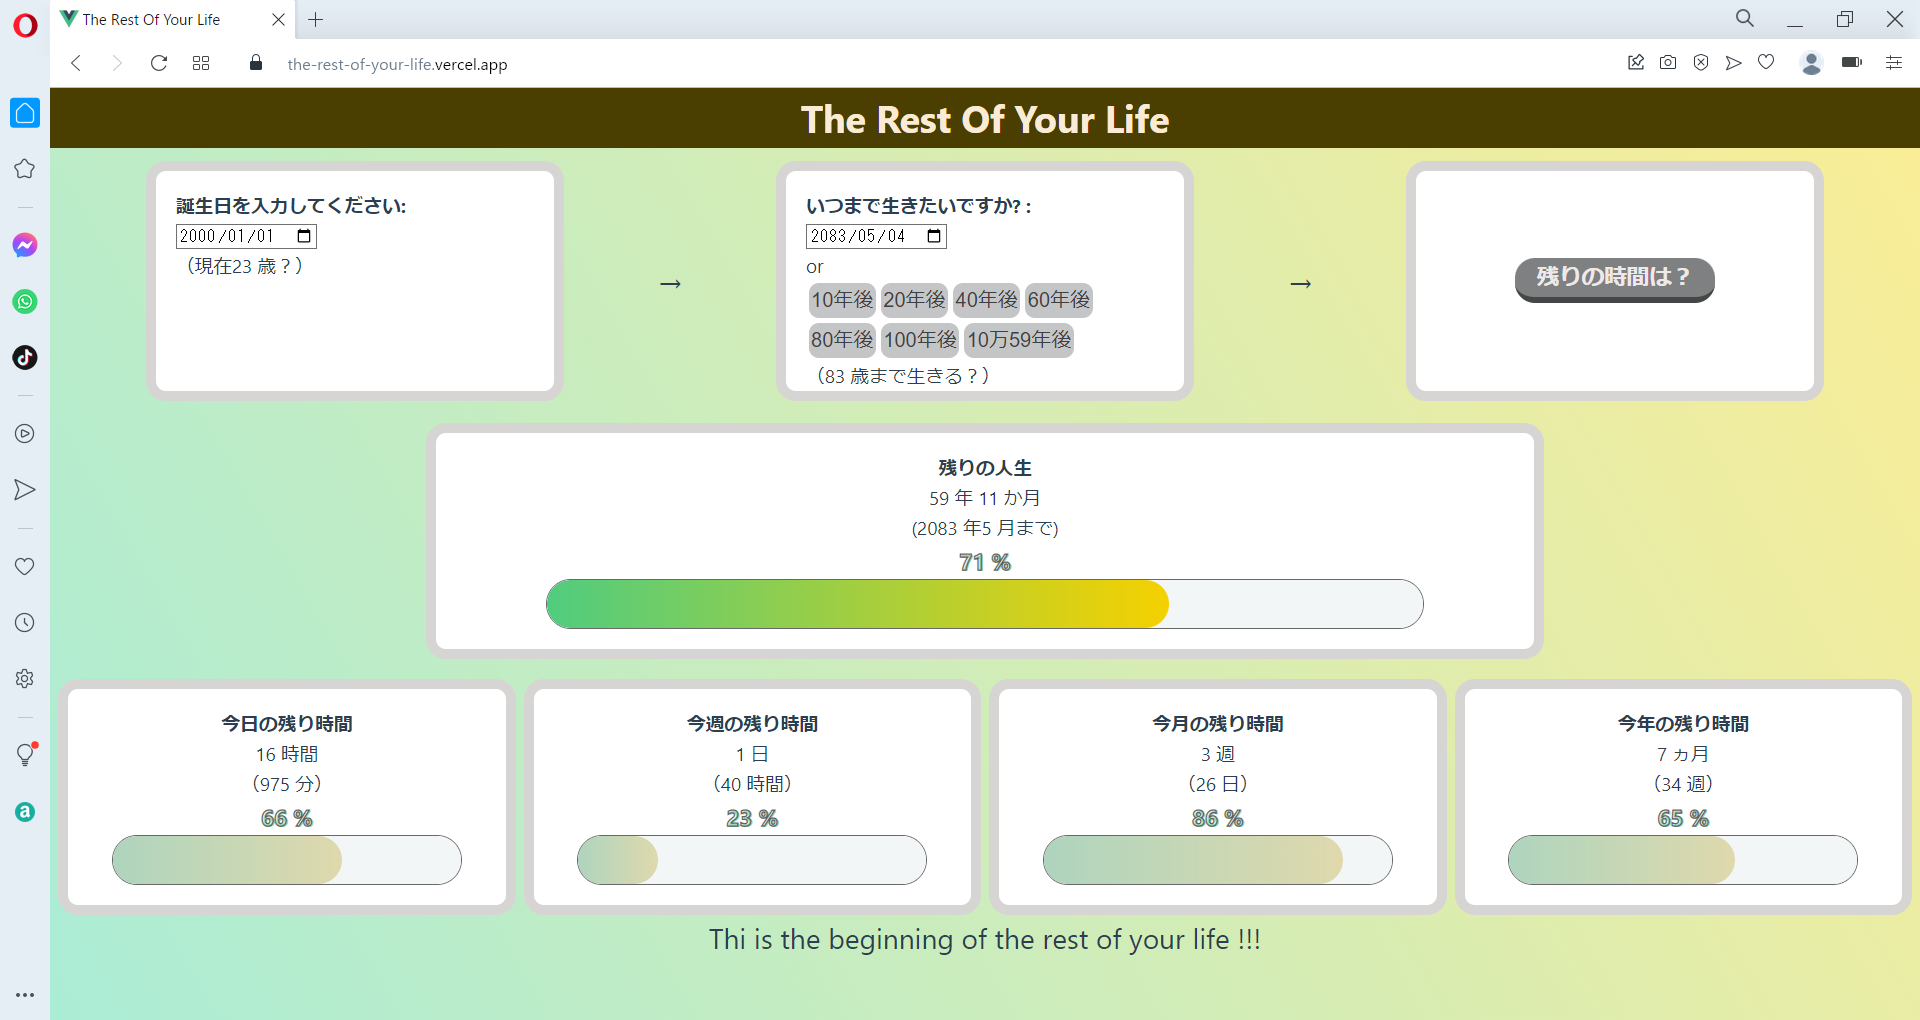
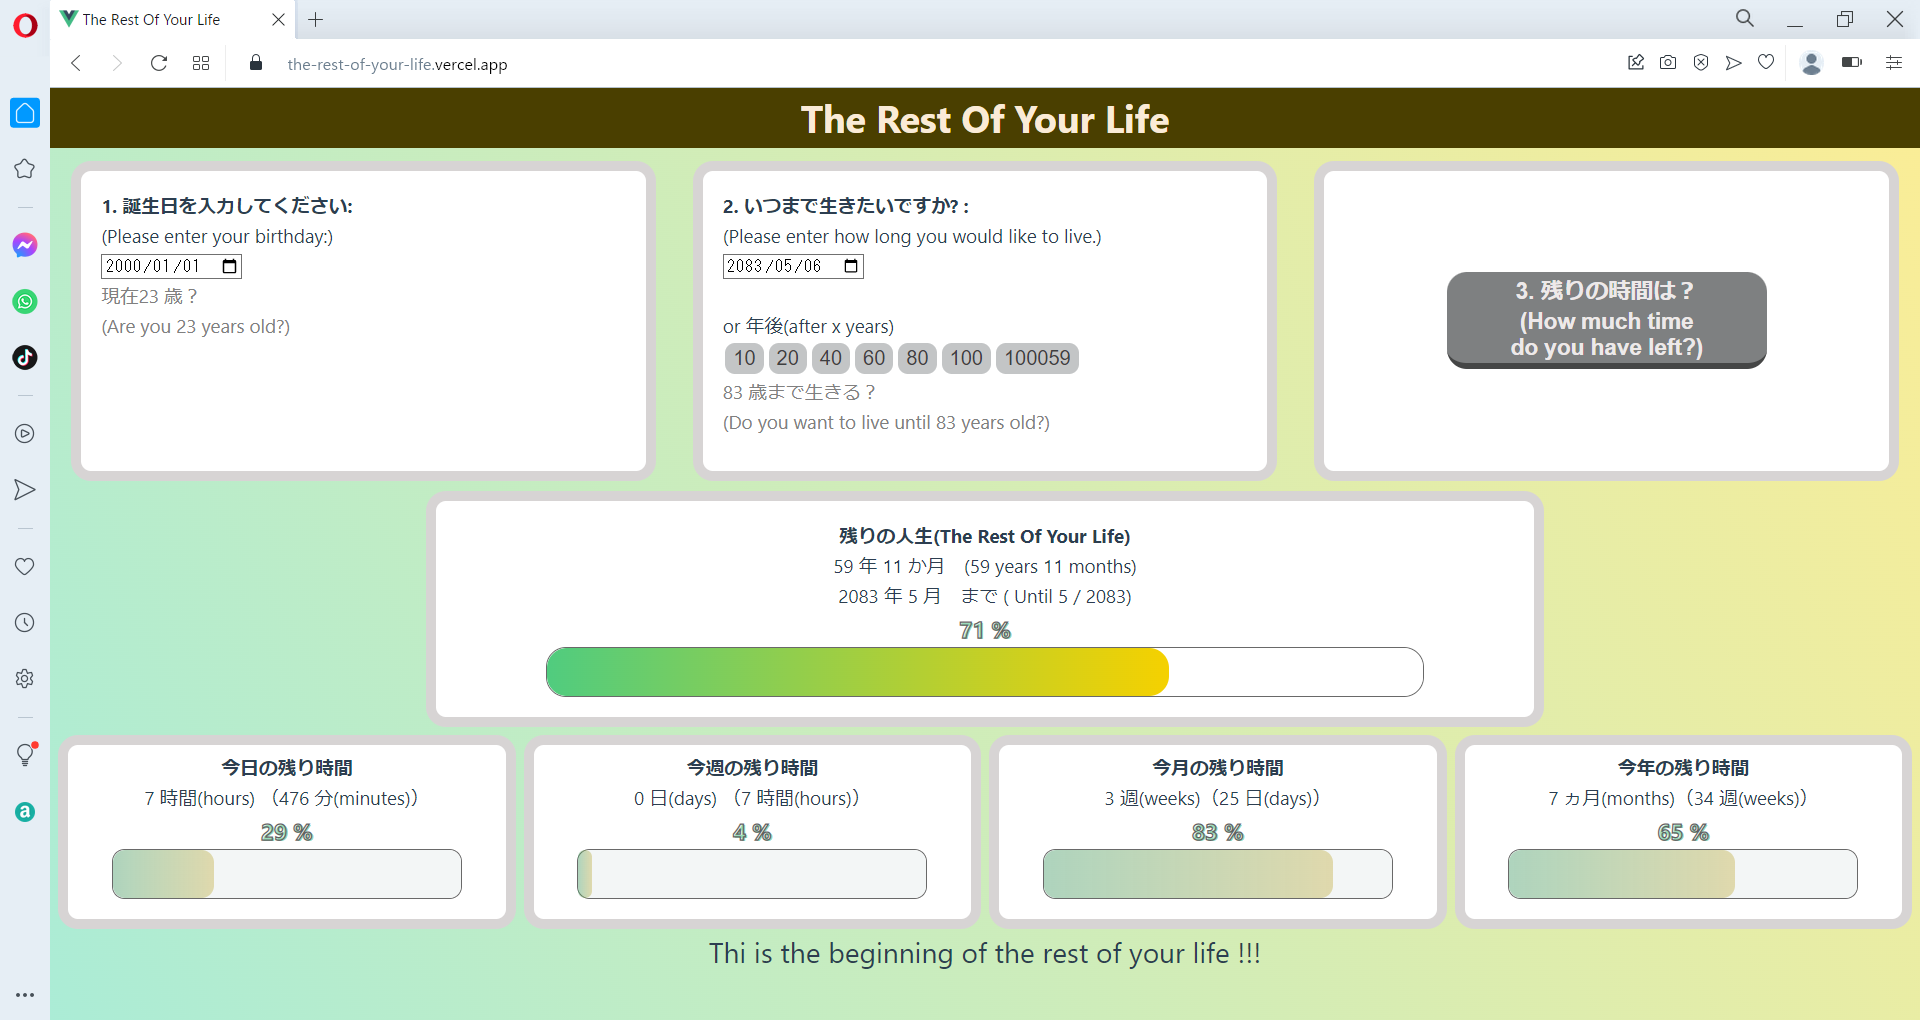
文字色指定

diff --git a/src/components/ThisMonthLeft.vue b/src/components/ThisMonthLeft.vue
@@ -22,6 +22,7 @@ export default {
   display: flex;
   justify-content: space-around;
   align-items: flex-start;
+  color: black;
 }
 .percent {
   display: flex;

diff --git a/src/components/ThisWeekLeft.vue b/src/components/ThisWeekLeft.vue
@@ -22,6 +22,7 @@ export default {
   display: flex;
   justify-content: space-around;
   align-items: flex-start;
+  color: black;
 }
 .percent {
   display: flex;

diff --git a/src/components/ThisYearLeft.vue b/src/components/ThisYearLeft.vue
@@ -22,6 +22,7 @@ export default {
   display: flex;
   justify-content: space-around;
   align-items: flex-start;
+  color: black;
 }
 .percent {
   display: flex;

diff --git a/src/components/TodayLeft.vue b/src/components/TodayLeft.vue
@@ -22,6 +22,7 @@ export default {
   display: flex;
   justify-content: space-around;
   align-items: flex-start;
+  color: black;
 }
 .percent {
   display: flex;

diff --git a/src/components/TimeLeft.vue b/src/components/TimeLeft.vue
@@ -280,6 +280,7 @@ export default {
   width: 90%;
   height: 16rem;
   background-color: white;
+  color: black;
 }
 .button-container {
   padding: 1rem;

diff --git a/src/components/LifeLeft.vue b/src/components/LifeLeft.vue
@@ -40,6 +40,7 @@ export default {
   display: flex;
   justify-content: space-around;
   align-items: flex-start;
+  color: black;
 }
 
 .percent {

diff --git a/README.md b/README.md
@@ -1,6 +1,7 @@
 # TheRestOfYourLife
 
 誕生日と生きたい日付から、残りの時間を計算するサイトです。
+This site calculates your remaining time based on your birthday and the date you want to live.
 
 ## example
 
